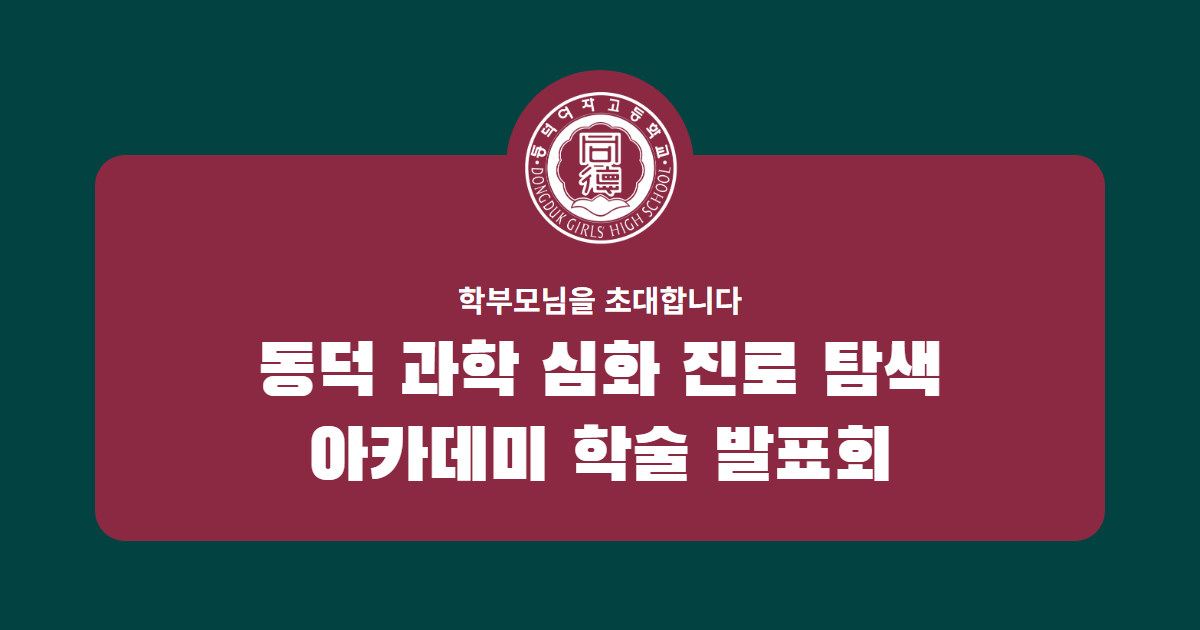
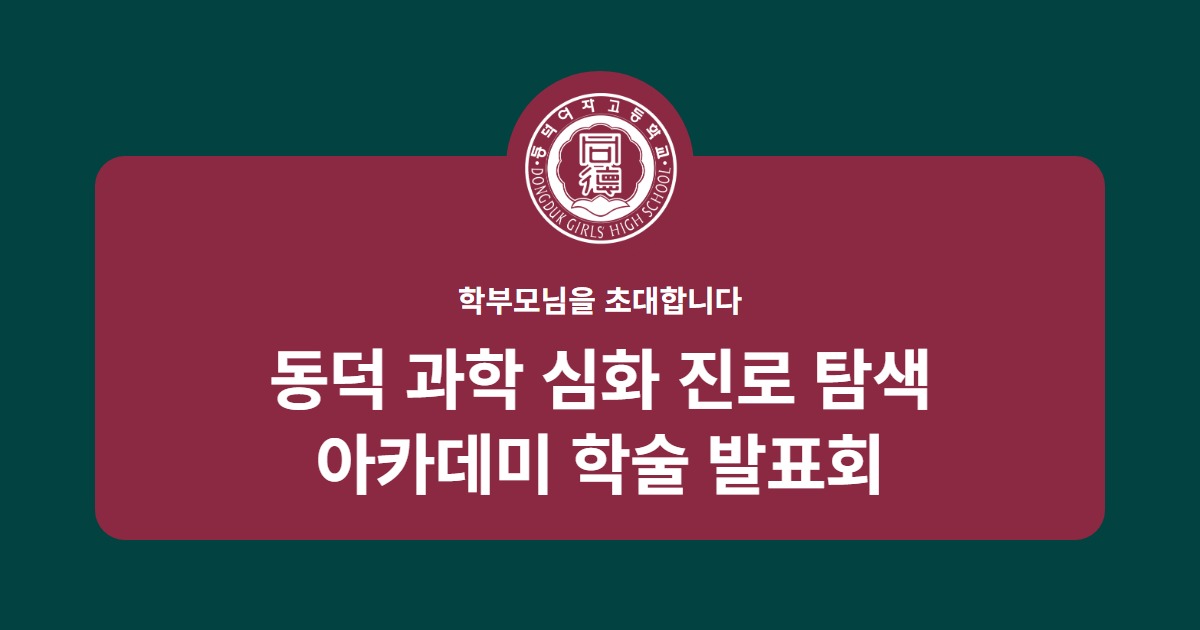
Use a readable title font and add an attendance form
Responses go through an Apps Script web app into a private sheet, separate from the public content sheet, because they contain children's names. The form stays hidden until the web app URL is configured.

Changed region(s): [[0.2158, 0.5429, 0.8017, 0.7841], [0.4317, 0.1508, 0.555, 0.3619]]

diff --git a/style.css b/style.css
@@ -51,10 +51,9 @@ body {
 .title {
   margin: 0;
   color: var(--accent);
-  font-family: "Black Han Sans", "Noto Sans KR", sans-serif;
-  font-weight: 400;
-  letter-spacing: -.01em;
-  line-height: 1.16;
+  font-weight: 700;
+  letter-spacing: -.02em;
+  line-height: 1.28;
 }
 .title span { display: block; }
 
@@ -90,7 +89,7 @@ body {
   border-radius: 18px;
   background: var(--burgundy);
 }
-#home .title { color: #fff; font-size: clamp(32px, 10.5vw, 50px); }
+#home .title { color: #fff; font-size: clamp(29px, 8.6vw, 42px); }
 .intro {
   max-width: 21em;
   margin: 18px 0 0;
@@ -124,9 +123,8 @@ body {
 .grade-button:active { transform: scale(.97); }
 .grade-button:focus-visible, .back:focus-visible { outline: 3px solid #fff; outline-offset: 3px; }
 .grade-button b {
-  font-family: "Black Han Sans", "Noto Sans KR", sans-serif;
-  font-size: 28px;
-  font-weight: 400;
+  font-size: 25px;
+  font-weight: 700;
   line-height: 1.2;
 }
 .grade-button small { font-size: 13px; font-weight: 700; }
@@ -167,7 +165,7 @@ body {
   text-decoration: none;
 }
 #detail .eyebrow { font-size: 14px; margin-bottom: 6px; }
-.grade-title { font-size: 72px; outline: none; }
+.grade-title { font-size: 52px; outline: none; }
 
 .info {
   margin: 22px 0 0;
@@ -187,9 +185,8 @@ body {
 .program-title {
   margin: 34px 0 6px;
   color: var(--accent);
-  font-family: "Black Han Sans", "Noto Sans KR", sans-serif;
-  font-size: 26px;
-  font-weight: 400;
+  font-size: 23px;
+  font-weight: 700;
 }
 
 .part {
@@ -240,6 +237,67 @@ body {
 .note p { margin: 0; }
 .note .school { margin-top: 12px; }
 .note strong { font-weight: 700; text-decoration: underline; text-underline-offset: 3px; }
+
+/* 참석 확인 */
+.rsvp-question, .rsvp legend { margin: 0 0 8px; padding: 0; font-size: 15px; font-weight: 700; }
+.rsvp fieldset { margin: 0 0 18px; padding: 0; border: 0; min-width: 0; }
+.chips { display: grid; grid-auto-flow: column; grid-auto-columns: 1fr; gap: 8px; }
+.chip { position: relative; display: block; cursor: pointer; }
+.chip input { position: absolute; opacity: 0; inset: 0; margin: 0; cursor: pointer; }
+.chip span {
+  display: flex;
+  align-items: center;
+  justify-content: center;
+  min-height: 48px;
+  padding: 6px;
+  border: 1px solid var(--line);
+  border-radius: 12px;
+  font-size: 15px;
+  font-weight: 700;
+  text-align: center;
+}
+.chip input:checked + span { border-color: var(--accent); background: var(--accent); color: var(--bg); }
+.chip input:focus-visible + span { outline: 3px solid #fff; outline-offset: 2px; }
+.rsvp-label { display: block; margin: 0 0 18px; font-size: 15px; font-weight: 700; }
+.rsvp-label input {
+  display: block;
+  width: 100%;
+  min-height: 48px;
+  margin-top: 8px;
+  padding: 10px 14px;
+  border: 0;
+  border-radius: 12px;
+  background: #fff;
+  color: #1c2b2b;
+  font: inherit;
+  font-size: 16px;
+  font-weight: 500;
+}
+.rsvp-trap { position: absolute; left: -9999px; }
+.rsvp-privacy { margin: 0 0 12px; font-size: 13px; opacity: .85; }
+.rsvp-submit {
+  width: 100%;
+  min-height: 52px;
+  border: 0;
+  border-radius: 12px;
+  background: var(--accent);
+  color: var(--bg);
+  font: inherit;
+  font-size: 16px;
+  font-weight: 700;
+  cursor: pointer;
+}
+.rsvp-submit:disabled { opacity: .6; cursor: default; }
+.rsvp-status { margin: 10px 0 0; font-size: 14px; font-weight: 500; }
+.rsvp-status:empty { display: none; }
+.rsvp-done {
+  padding: 22px 16px;
+  border: 1px solid var(--accent);
+  border-radius: 14px;
+  text-align: center;
+}
+.rsvp-done p { margin: 0 0 10px; font-size: 16px; font-weight: 700; }
+.rsvp-again { padding: 6px; border: 0; background: none; color: var(--text); font: inherit; font-size: 14px; text-decoration: underline; cursor: pointer; }
 
 @media (min-width: 521px) {
   .note { border-radius: 14px 14px 0 0; }

diff --git a/app.js b/app.js
@@ -140,14 +140,95 @@
     renderProgram(grade.talks);
   }
 
+  function rsvpKey(name) {
+    return "invite-rsvp-" + name;
+  }
+
+  // 저장소를 쓸 수 없는 브라우저에서도 양식은 그대로 동작해야 합니다.
+  function wasSubmitted(name) {
+    try { return localStorage.getItem(rsvpKey(name)) === "1"; } catch (err) { return false; }
+  }
+
+  function setSubmitted(name, value) {
+    try {
+      if (value) localStorage.setItem(rsvpKey(name), "1");
+      else localStorage.removeItem(rsvpKey(name));
+    } catch (err) { /* 저장하지 못해도 제출에는 영향이 없습니다. */ }
+  }
+
+  function renderRsvp(name) {
+    var form = document.getElementById("rsvp-form");
+    document.getElementById("rsvp").hidden = !window.INVITE_RSVP_URL;
+    form.reset();
+    document.getElementById("rsvp-details").hidden = true;
+    document.getElementById("rsvp-status").textContent = "";
+    form.hidden = wasSubmitted(name);
+    document.getElementById("rsvp-done").hidden = !form.hidden;
+  }
+
+  function submitRsvp(event) {
+    event.preventDefault();
+    var form = event.target;
+    var status = document.getElementById("rsvp-status");
+    var grade = HASH_TO_GRADE[location.hash];
+    var attend = form.elements.attend.value;
+    var child = form.elements.child.value.trim();
+    var count = form.elements.count.value;
+    if (!attend) { status.textContent = "참석 여부를 선택해 주세요."; return; }
+    if (attend === "참석" && !child) { status.textContent = "자녀 이름을 입력해 주세요."; return; }
+    if (attend === "참석" && !count) { status.textContent = "참석 인원을 선택해 주세요."; return; }
+
+    var button = form.querySelector(".rsvp-submit");
+    button.disabled = true;
+    status.textContent = "제출하는 중입니다…";
+    // text/plain으로 보내야 Apps Script가 처리하지 못하는 사전 요청이 생기지 않습니다.
+    fetch(window.INVITE_RSVP_URL, {
+      method: "POST",
+      headers: { "Content-Type": "text/plain;charset=utf-8" },
+      body: JSON.stringify({
+        grade: grade,
+        attend: attend,
+        child: attend === "참석" ? child : "",
+        count: attend === "참석" ? Number(count) : 0,
+        website: form.elements.website.value
+      })
+    }).then(function (res) {
+      return res.json();
+    }).then(function (result) {
+      if (!result.ok) throw new Error(result.error || "rsvp failed");
+      setSubmitted(grade, true);
+      renderRsvp(grade);
+    }).catch(function (err) {
+      console.warn("참석 여부를 제출하지 못했습니다.", err);
+      status.textContent = "제출하지 못했습니다. 잠시 후 다시 시도해 주세요.";
+    }).then(function () {
+      button.disabled = false;
+    });
+  }
+
   function route() {
     var name = HASH_TO_GRADE[location.hash];
     document.getElementById("home").hidden = !!name;
     document.getElementById("detail").hidden = !name;
-    if (name) renderDetail(name);
-    else renderHome();
+    if (name) {
+      renderDetail(name);
+      renderRsvp(name);
+    } else renderHome();
     window.scrollTo(0, 0);
   }
+
+  document.getElementById("rsvp-form").addEventListener("submit", submitRsvp);
+  document.getElementById("rsvp-form").addEventListener("change", function (event) {
+    if (event.target.name === "attend") {
+      document.getElementById("rsvp-details").hidden = event.target.value !== "참석";
+      document.getElementById("rsvp-status").textContent = "";
+    }
+  });
+  document.getElementById("rsvp-again").addEventListener("click", function () {
+    var name = HASH_TO_GRADE[location.hash];
+    setSubmitted(name, false);
+    renderRsvp(name);
+  });
 
   window.addEventListener("hashchange", route);
   route();

diff --git a/index.html b/index.html
@@ -17,8 +17,8 @@
   <link rel="icon" type="image/png" href="logo-burgundy.png">
   <link rel="preconnect" href="https://fonts.googleapis.com">
   <link rel="preconnect" href="https://fonts.gstatic.com" crossorigin>
-  <link href="https://fonts.googleapis.com/css2?family=Black+Han+Sans&family=Noto+Sans+KR:wght@400;500;700&display=swap" rel="stylesheet">
-  <link rel="stylesheet" href="style.css?v=20261102b">
+  <link href="https://fonts.googleapis.com/css2?family=Noto+Sans+KR:wght@400;500;700&display=swap" rel="stylesheet">
+  <link rel="stylesheet" href="style.css?v=20261102c">
 </head>
 <body>
   <svg class="deco deco-flask" viewBox="0 0 200 260" aria-hidden="true">
@@ -68,6 +68,42 @@
         <div><dt>시간</dt><dd id="info-time"></dd></div>
         <div><dt>장소</dt><dd id="info-place"></dd></div>
       </dl>
+      <section id="rsvp" class="rsvp" hidden>
+        <h3 class="program-title">참석 여부</h3>
+        <form id="rsvp-form" novalidate>
+          <fieldset>
+            <legend>발표회에 참석하실 수 있나요?</legend>
+            <div class="chips">
+              <label class="chip"><input type="radio" name="attend" value="참석"><span>참석 가능</span></label>
+              <label class="chip"><input type="radio" name="attend" value="불참"><span>참석 어려움</span></label>
+            </div>
+          </fieldset>
+          <div id="rsvp-details" hidden>
+            <label class="rsvp-label">자녀 이름
+              <input type="text" name="child" maxlength="20" autocomplete="off">
+            </label>
+            <fieldset>
+              <legend>참석 인원</legend>
+              <div class="chips">
+                <label class="chip"><input type="radio" name="count" value="1"><span>1명</span></label>
+                <label class="chip"><input type="radio" name="count" value="2"><span>2명</span></label>
+                <label class="chip"><input type="radio" name="count" value="3"><span>3명</span></label>
+                <label class="chip"><input type="radio" name="count" value="4"><span>4명</span></label>
+              </div>
+            </fieldset>
+            <p class="rsvp-privacy">입력하신 내용은 발표회 참석 확인에만 사용합니다.</p>
+          </div>
+          <label class="rsvp-trap" aria-hidden="true">비워 두세요
+            <input type="text" name="website" tabindex="-1" autocomplete="off">
+          </label>
+          <button class="rsvp-submit" type="submit">제출하기</button>
+          <p id="rsvp-status" class="rsvp-status" role="status"></p>
+        </form>
+        <div id="rsvp-done" class="rsvp-done" hidden>
+          <p>참석 여부를 전달했습니다. 감사합니다.</p>
+          <button id="rsvp-again" class="rsvp-again" type="button">다시 제출하기</button>
+        </div>
+      </section>
       <h3 class="program-title">발표 순서</h3>
       <div id="program"></div>
       <footer class="note">
@@ -77,7 +113,7 @@
     </section>
   </main>
 
-  <script src="content.js?v=20261102b"></script>
-  <script src="app.js?v=20261102b"></script>
+  <script src="content.js?v=20261102c"></script>
+  <script src="app.js?v=20261102c"></script>
 </body>
 </html>

diff --git a/content.js b/content.js
@@ -1,6 +1,9 @@
 // 구글 시트 ID. 비워 두면 아래 기본 내용만 표시합니다.
 window.INVITE_SHEET_ID = "14lM-VAJaGQxx2yVUsN24H0MH-9aRV-yGePmfuf8Qx9k";
 
+// 참석 확인을 받는 Apps Script 웹 앱 주소. 비워 두면 참석 확인 양식을 숨깁니다.
+window.INVITE_RSVP_URL = "";
+
 // 시트를 불러오지 못할 때 보여 줄 기본 내용. 평소 내용 수정은 구글 시트에서 합니다.
 window.INVITE_FALLBACK = {
   grades: {

diff --git a/README.md b/README.md
@@ -8,6 +8,16 @@
 
 시트를 읽으려면 시트 공유가 "링크가 있는 모든 사용자: 뷰어" 이상이어야 합니다. 시트를 읽지 못하면 초대장은 `content.js`의 기본 내용을 표시합니다.
 
+## 참석 확인
+
+학부모님이 제출한 참석 여부는 초대장 내용 시트와 분리된 비공개 시트에 저장합니다. 이 시트는 링크 공개로 바꾸지 말고 담당 선생님만 편집자로 공유합니다.
+
+`apps-script/Code.gs`를 비공개 시트의 Apps Script에 넣어 웹 앱으로 배포하고, 그 주소를 `content.js`의 `INVITE_RSVP_URL`에 적으면 양식이 나타납니다.
+
+## 디자인 수정 후 배포
+
+브라우저가 이전 파일을 저장해 두므로 `style.css`, `app.js`, `content.js`를 고치면 `index.html`의 `?v=` 값도 함께 바꿉니다.
+
 ## 파일
 
 - `index.html`, `style.css`, `app.js`: 초대장 화면
